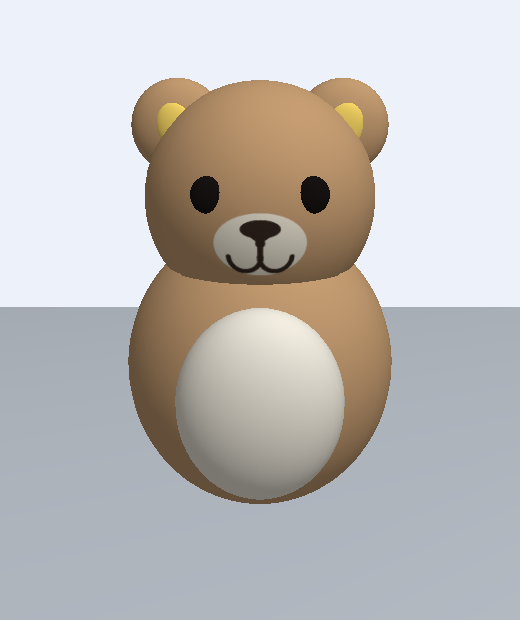
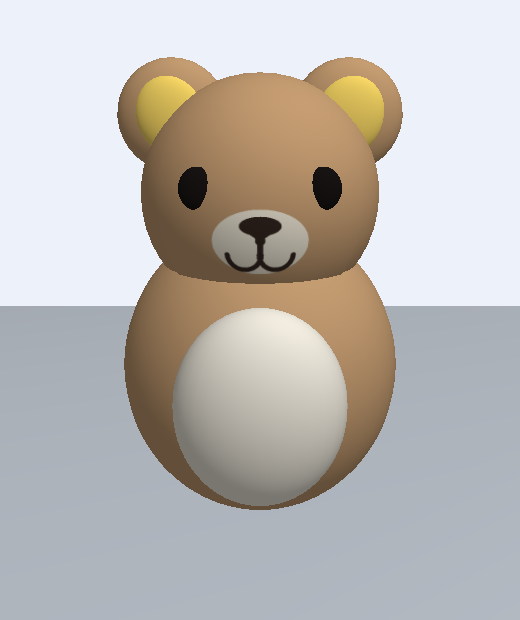
얼굴 비율을 일러스트에 맞춤(3D 인형 느낌 유지)
- 귀를 키우고 노란 안쪽을 크게 -> 앞면을 거의 채워 일러스트처럼 노란색 강조
- 눈을 더 크고 넓게(와이드 셋) 배치
- 귀 위치/기울기 조정(더 위·바깥쪽)
- docs/preview 갱신

diff --git a/src/character/Head.cpp b/src/character/Head.cpp
@@ -55,32 +55,32 @@ void renderHeadSphere() {
 void renderEye() {
     Lighting::applyPlushMaterial();
     Palette::eye();
-    // 머리 표면에 납작하게 박힌 점(z 로 눌러 평평하게, 광택 X).
+    // 머리 표면에 납작하게 박힌 점(z 로 눌러 평평하게, 광택 X). 일러스트처럼 큼.
     glPushMatrix();
-    glScalef(0.95f, 1.05f, 0.5f);
-    glutSolidSphere(0.135f, 28, 28);
+    glScalef(0.95f, 1.08f, 0.5f);
+    glutSolidSphere(0.15f, 28, 28);
     glPopMatrix();
 }
 
 //------------------------------------------------------------------------------
-// 귀: 납작한 갈색 구 + 앞면에 작고 납작한 노란 안쪽 (덜 튀어나오게)
+// 귀: 납작한 갈색 원반 + 앞면을 크게 채우는 노란 안쪽(일러스트처럼 노란색 강조).
 //------------------------------------------------------------------------------
 void renderEar() {
     Lighting::applyPlushMaterial();
 
-    // 귀 본체 (갈색, 납작)
+    // 귀 본체 (갈색, 납작하고 크게)
     Palette::brown();
     glPushMatrix();
-    glScalef(1.0f, 1.0f, 0.55f);
-    glutSolidSphere(0.40f, 32, 32);
+    glScalef(1.0f, 1.0f, 0.5f);
+    glutSolidSphere(0.46f, 32, 32);
     glPopMatrix();
 
-    // 안쪽 노란색: 작고 납작한 오발을 앞면에 살짝만 얹음
+    // 안쪽 노란색: 크고 둥글게 앞면 대부분을 채워 얇은 갈색 테만 남김
     Palette::yellow();
     glPushMatrix();
-    glTranslatef(0.0f, -0.01f, 0.18f);
-    glScalef(0.55f, 0.70f, 0.22f);
-    glutSolidSphere(0.30f, 24, 24);
+    glTranslatef(0.0f, -0.01f, 0.15f);
+    glScalef(0.72f, 0.82f, 0.30f);
+    glutSolidSphere(0.40f, 28, 28);
     glPopMatrix();
 }
 
@@ -162,27 +162,27 @@ SceneNode* BuildHead() {
     face->setRenderFunction(renderFace);
     head->addChild(face);
 
-    // 눈 (흰 타원 위쪽 양옆)
+    // 눈 (흰 타원 위쪽 양옆, 일러스트처럼 넓게 벌림)
     SceneNode* leftEye = new SceneNode();
-    leftEye->setTranslation(-0.40f, 0.12f, 0.91f);
+    leftEye->setTranslation(-0.46f, 0.13f, 0.86f);
     leftEye->setRenderFunction(renderEye);
     head->addChild(leftEye);
 
     SceneNode* rightEye = new SceneNode();
-    rightEye->setTranslation(0.40f, 0.12f, 0.91f);
+    rightEye->setTranslation(0.46f, 0.13f, 0.86f);
     rightEye->setRenderFunction(renderEye);
     head->addChild(rightEye);
 
-    // 귀 (위쪽 양옆, 살짝 바깥으로 기울임)
+    // 귀 (위쪽 양옆, 크게 + 바깥으로 기울임)
     SceneNode* leftEar = new SceneNode();
-    leftEar->setTranslation(-0.7f, 0.62f, 0.0f);
-    leftEar->setRotation(20.0f, 0.0f, 0.0f, 1.0f);
+    leftEar->setTranslation(-0.72f, 0.66f, 0.0f);
+    leftEar->setRotation(24.0f, 0.0f, 0.0f, 1.0f);
     leftEar->setRenderFunction(renderEar);
     head->addChild(leftEar);
 
     SceneNode* rightEar = new SceneNode();
-    rightEar->setTranslation(0.7f, 0.62f, 0.0f);
-    rightEar->setRotation(-20.0f, 0.0f, 0.0f, 1.0f);
+    rightEar->setTranslation(0.72f, 0.66f, 0.0f);
+    rightEar->setRotation(-24.0f, 0.0f, 0.0f, 1.0f);
     rightEar->setRenderFunction(renderEar);
     head->addChild(rightEar);
 